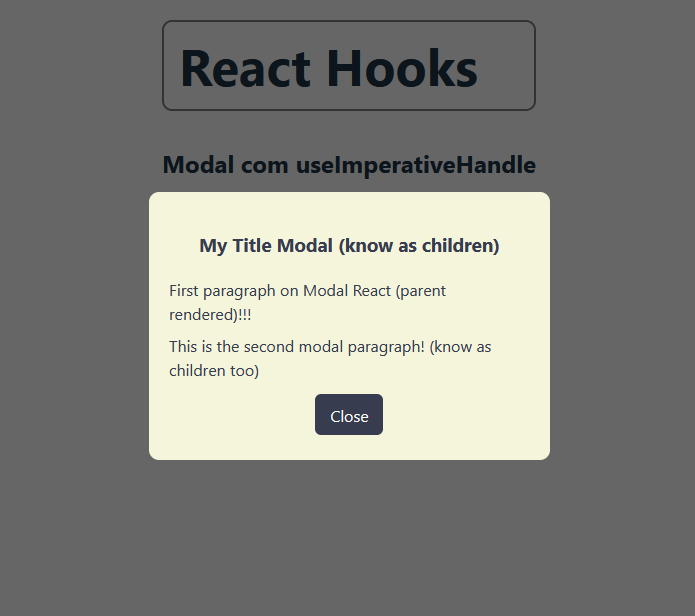
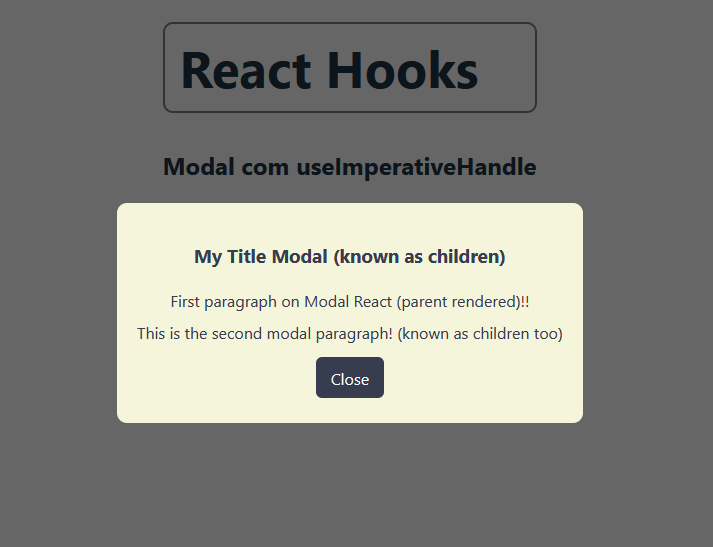
Updated screenshot modal window

Changed region(s): [[0.1511, 0.2486, 0.8158, 0.777], [0.2115, 0.0311, 0.7856, 0.2176]]

diff --git a/03-Avancando-no-React/othersHooks/testHooks/src/components/Modal.jsx b/03-Avancando-no-React/othersHooks/testHooks/src/components/Modal.jsx
@@ -15,9 +15,9 @@ const Modal = ({ modalRef, children}) => {
   return (
     <div className={styles.bgg}>
       <div className={styles.modal}>
-        <h3>My Title Modal (know as children)</h3>
+        <h3>My Title Modal (known as children)</h3>
         {children}
-        <p>This is the second modal paragraph! (know as children too)</p>
+        <p>This is the second modal paragraph! (known as children too)</p>
         <button onClick={() => setModalState(false)}>Close</button>
       </div>
     </div>

diff --git a/03-Avancando-no-React/othersHooks/testHooks/src/App.jsx b/03-Avancando-no-React/othersHooks/testHooks/src/App.jsx
@@ -21,7 +21,7 @@ function App() {
       </button>
       
         <Modal modalRef={modalRef}>
-          <p>First paragraph on Modal React (parent rendered)!!!</p>
+          <p>First paragraph on Modal React (parent rendered)!!</p>
         </Modal>
       
     </div>
